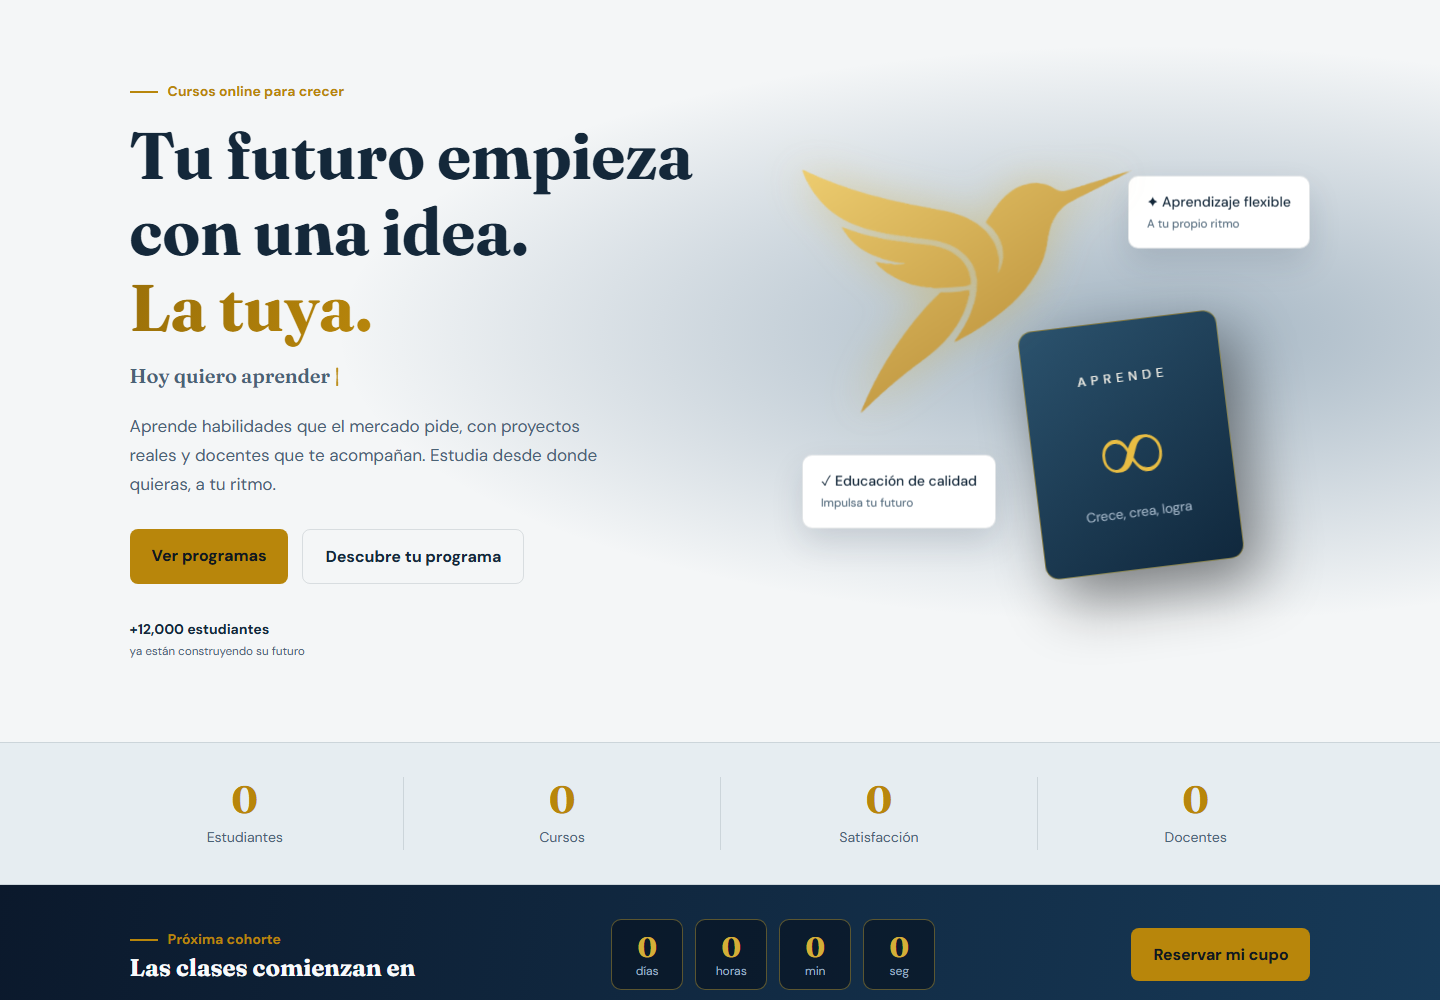
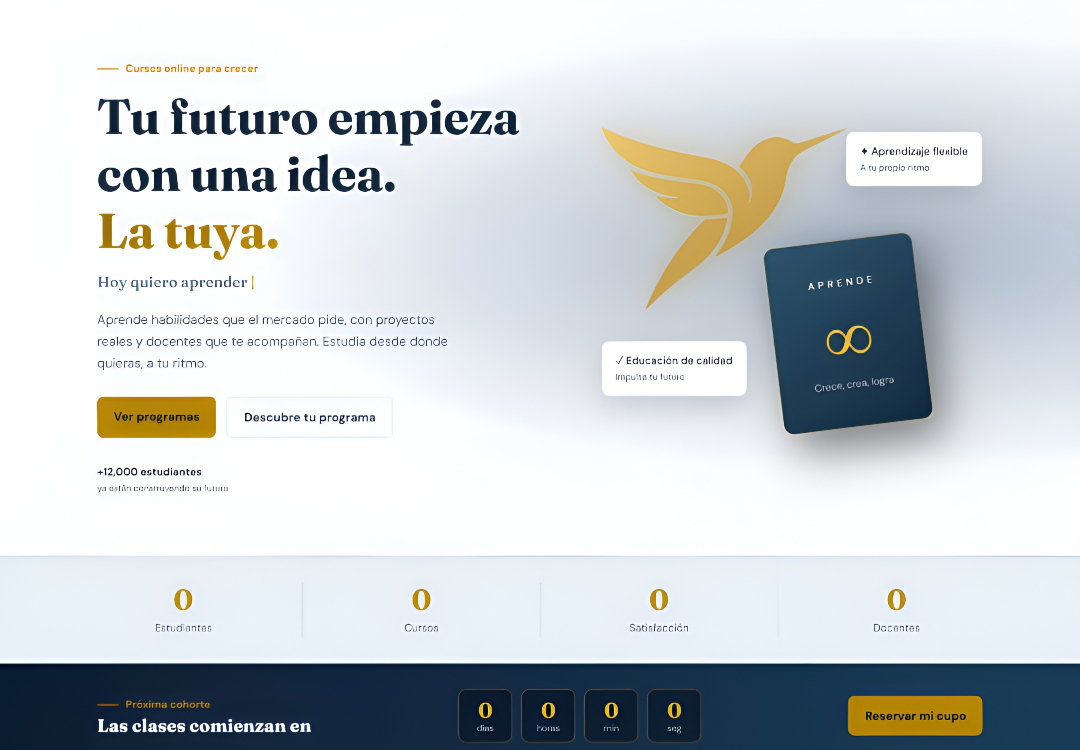
feat: publicar mejoras visuales de Leyton (#28)
* feat: habilitar Abogados Nivel 2 (#21)

* feat: habilitar Educación Nivel 3 (#23)

* feat: habilitar Abogados Nivel 3 (#25)

* feat: mejorar vistas previas del catálogo (#27)

diff --git a/src/components/TarjetaPlantilla/TarjetaPlantilla.css b/src/components/TarjetaPlantilla/TarjetaPlantilla.css
@@ -3,10 +3,10 @@
   background: var(--superficie); border: 1px solid var(--linea); border-radius: 0.75rem; overflow: hidden; box-shadow: var(--sombra);
   transition: border-color var(--m-200) var(--sale), transform var(--m-200) var(--sale);
 }
-@media (hover: hover) { .tarjeta:hover { border-color: var(--linea-fuerte); transform: translateY(-3px); } }
-.tarjeta__vista { position: relative; aspect-ratio: 16 / 10; background: var(--marino-800); border-bottom: 1px solid var(--linea); overflow: hidden; }
-.tarjeta__vista img { width: 100%; height: 100%; object-fit: cover; object-position: top; }
-.marco { position: absolute; top: 0; left: 0; right: 0; height: 1.5rem; display: flex; align-items: center; gap: 0.35rem; padding-inline: 0.75rem; background: rgb(10 28 40 / 88%); z-index: 1; }
+@media (hover: hover) { .tarjeta:hover { border-color: var(--linea-fuerte); transform: translateY(-3px); box-shadow: var(--sombra), 0 0 22px rgba(247, 208, 130, 0.55), 0 0 38px rgba(247, 208, 130, 0.55); } }
+.tarjeta__vista { position: relative; display: flex; flex-direction: column; aspect-ratio: 16 / 10; background: var(--marino-900); border-bottom: 1px solid var(--linea); overflow: hidden; }
+.tarjeta__vista img { width: 100%; height: 100%; flex: 1; min-height: 0; object-fit: contain; object-position: center top; background: var(--marino-900); }
+.marco { position: relative; flex-shrink: 0; height: 1.5rem; display: flex; align-items: center; gap: 0.35rem; padding-inline: 0.75rem; background: var(--marino-900); border-bottom: 1px solid rgb(255 255 255 / 8%); z-index: 1; }
 .marco i { width: 0.5rem; height: 0.5rem; border-radius: 50%; background: rgb(220 188 125 / 55%); }
 .tarjeta__hueco { height: 100%; display: grid; place-content: center; justify-items: center; gap: 0.75rem; color: var(--oro); font-size: var(--t-sec); background: radial-gradient(ellipse at 50% 40%, #1b4058 0%, var(--marino-800) 70%); }
 .tarjeta__hueco span { color: #c6d3dc; }

diff --git a/src/data/plantillas.js b/src/data/plantillas.js
@@ -51,7 +51,7 @@ export const PLANTILLAS = [
     traduccion: base,
     url: id === 'tpl-004' ? 'https://profesionales-abogados-nivel-2-gqhr.vercel.app/' : id === 'tpl-005' ? 'https://profesionales-abogados-nivel-3.vercel.app/' : id === 'tpl-008' ? 'https://educacion-clases-nivel-2-two.vercel.app/' : id === 'tpl-009' ? 'https://educacion-clases-nivel3-tan.vercel.app/' : null,
     repo: null,
-    preview: id === 'tpl-008' ? `${import.meta.env.BASE_URL}previews/educacion-n2.png` : null,
+    preview: id === 'tpl-004' ? `${import.meta.env.BASE_URL}previews/abogados-n2.png` : id === 'tpl-008' ? `${import.meta.env.BASE_URL}previews/educacion-n2.png` : null,
   }))),
 ].sort((a, b) => CATEGORIAS.indexOf(a.categoria) - CATEGORIAS.indexOf(b.categoria) || a.nivel - b.nivel);
 
